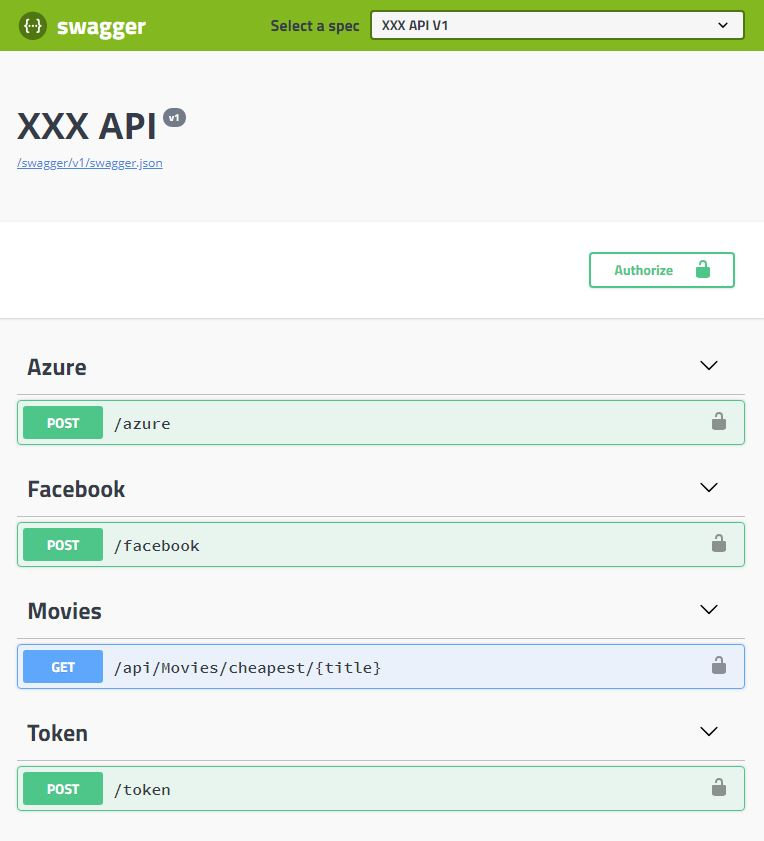
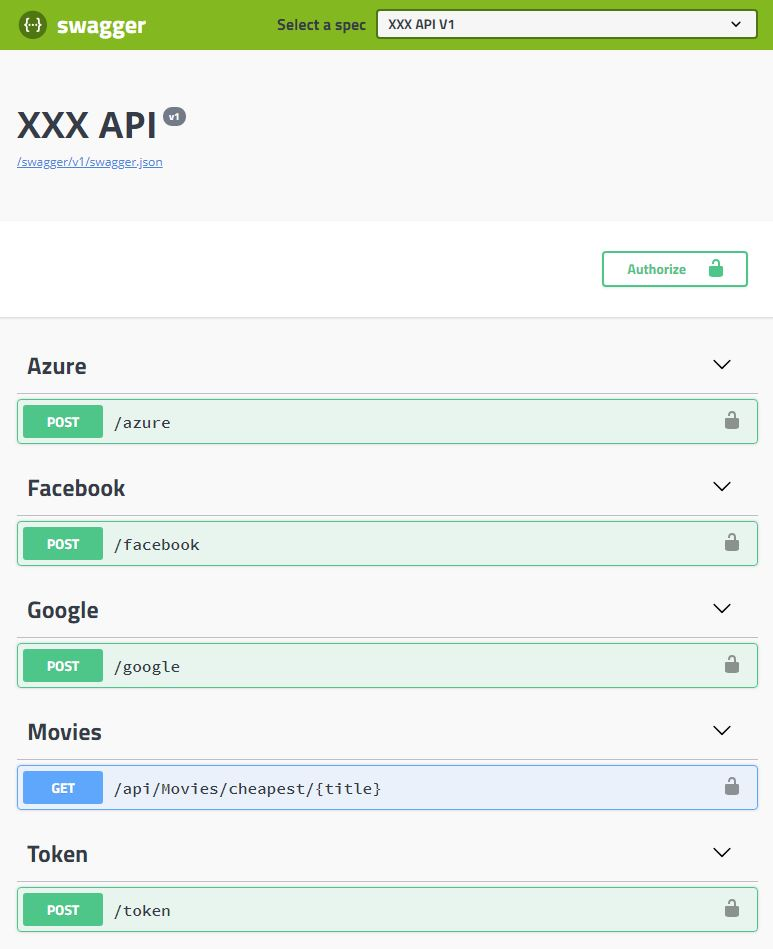
updated readme.

diff --git a/README.md b/README.md
@@ -236,6 +236,8 @@ You can use multiple authentications in your app.
 
 *	Azure Active Directory
 
+*	Google
+
 *	Facebook
 
 ```C#
@@ -251,16 +253,18 @@ You can use multiple authentications in your app.
             var securitySettings = new SecuritySettings();
             this.Configuration.Bind("SecuritySettings", securitySettings);
 
+			//Default + AzureAD + Google + Facebook
             //services
             //        .AddSecurity(securitySettings, true)
             //        .AddSecurity<Authenticator>()
             //        .AddFacebookSecurity(builder =>
             //            builder.AddClaim("FacebookUser", userModel => userModel.UserAccessToken))
-            //        .AddAzureADSecurity();
+            //        .AddAzureADSecurity()
+            //        .AddGoogleSecurity();
 
             //OR
 
-            //Custom User model auth + Azure AD + Facebook            
+            //Custom User model auth + Azure AD + Google + Facebook            
             services
                    .AddSecurity(securitySettings, true)
                    .AddSecurity<CustomAuthenticator, UserModel>(builder =>
@@ -269,10 +273,22 @@ You can use multiple authentications in your app.
                               .AddClaim("DOB", userModel => userModel.DOB.ToShortDateString()))
                    .AddFacebookSecurity(builder =>
                        builder.AddClaim("FacebookUser", userModel => userModel.UserAccessToken.ToString()))
-                   .AddAzureADSecurity();
+                   .AddAzureADSecurity()
+                   .AddGoogleSecurity();
 
-            //services.AddMvc().AddSecurity().AddFacebookSecurity().AddAzureADSecurity();
-            services.AddMvc().AddSecurity<UserModel>().AddFacebookSecurity().AddAzureADSecurity();
+            //services.AddMvc()
+            //        .AddSecurity()
+            //        .AddFacebookSecurity()
+            //        .AddAzureADSecurity()
+            //        .AddGoogleSecurity();
+			
+			//OR
+
+            services.AddMvc()
+                    .AddSecurity<UserModel>()
+                    .AddFacebookSecurity()
+                    .AddAzureADSecurity()
+                    .AddGoogleSecurity();            
         }
 
         // This method gets called by the runtime. Use this method to configure the HTTP request pipeline.
